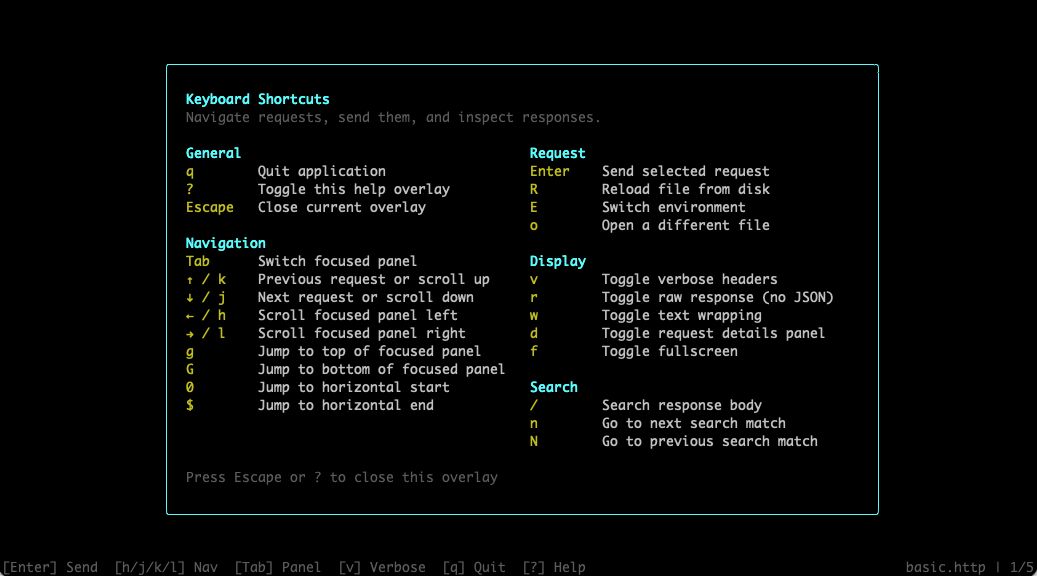
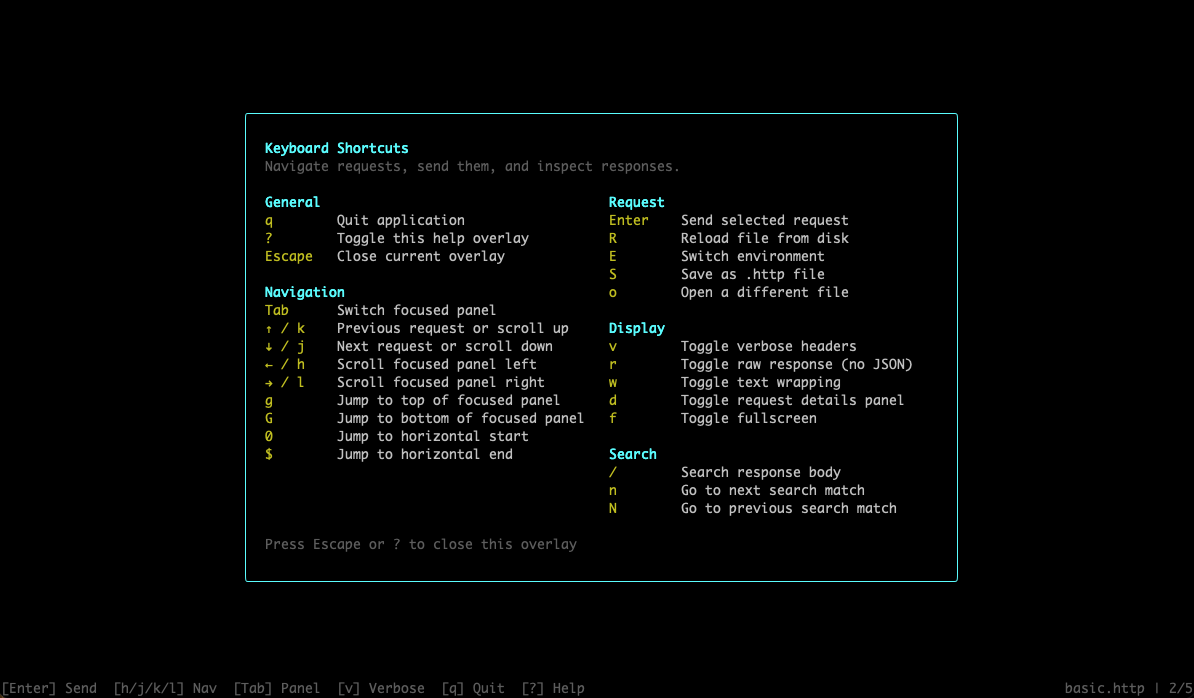
Update screenshots

diff --git a/README.md b/README.md
@@ -2,7 +2,7 @@
 
 Interactive terminal UI for .http files.
 
-![httptui requests](assets/httptui-requests.jpg)
+![httptui requests](assets/httptui-requests.png)
 
 httptui is a fast, keyboard-driven REST client that lives in your terminal. It parses `.http` and `.rest` files, allowing you to browse and execute requests without leaving your workflow.
 